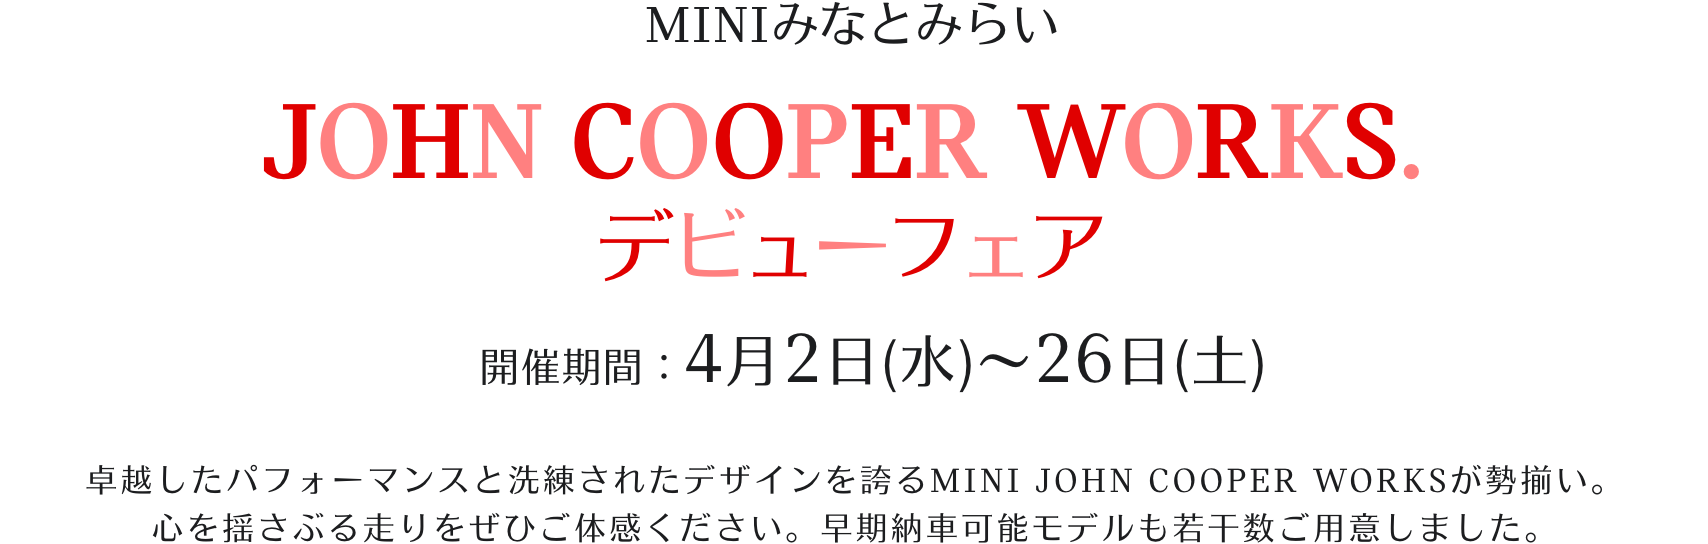
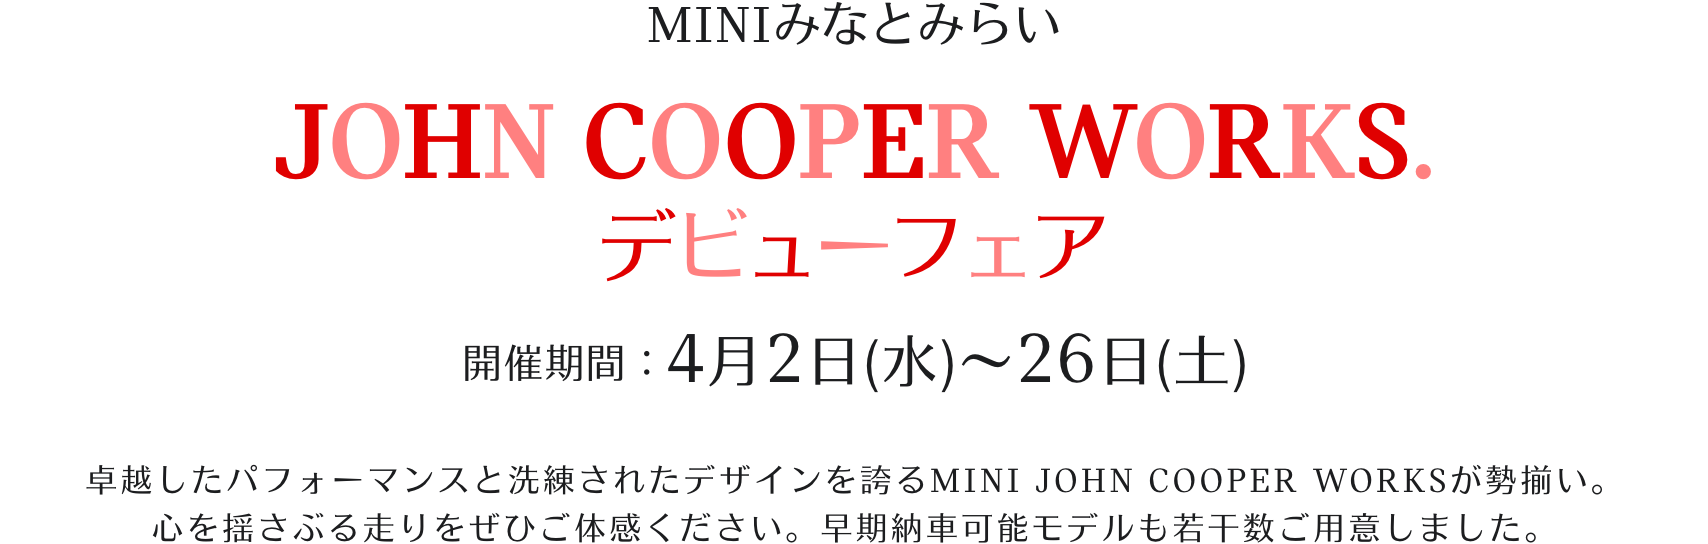
no message

diff --git a/250402MINI/static/css/style.css b/250402MINI/static/css/style.css
@@ -1614,11 +1614,11 @@ video {
   max-width: 1150px;
   width: 84%;
   margin: auto;
-  padding: 60% 0 0;
+  padding: 0;
   position: relative;
 }
 .bg-fix .card {
-  margin: 100px auto;
+  margin: 50px auto;
   text-align: center;
 }
 .bg-fix .card li{
@@ -1673,7 +1673,7 @@ video {
 .bg02{
   text-align: center;
   background: #000;
-  padding: 20px 0 60px;
+  padding: 60px 0;
 }
 .bg02 .btns{
   width: 84%;
